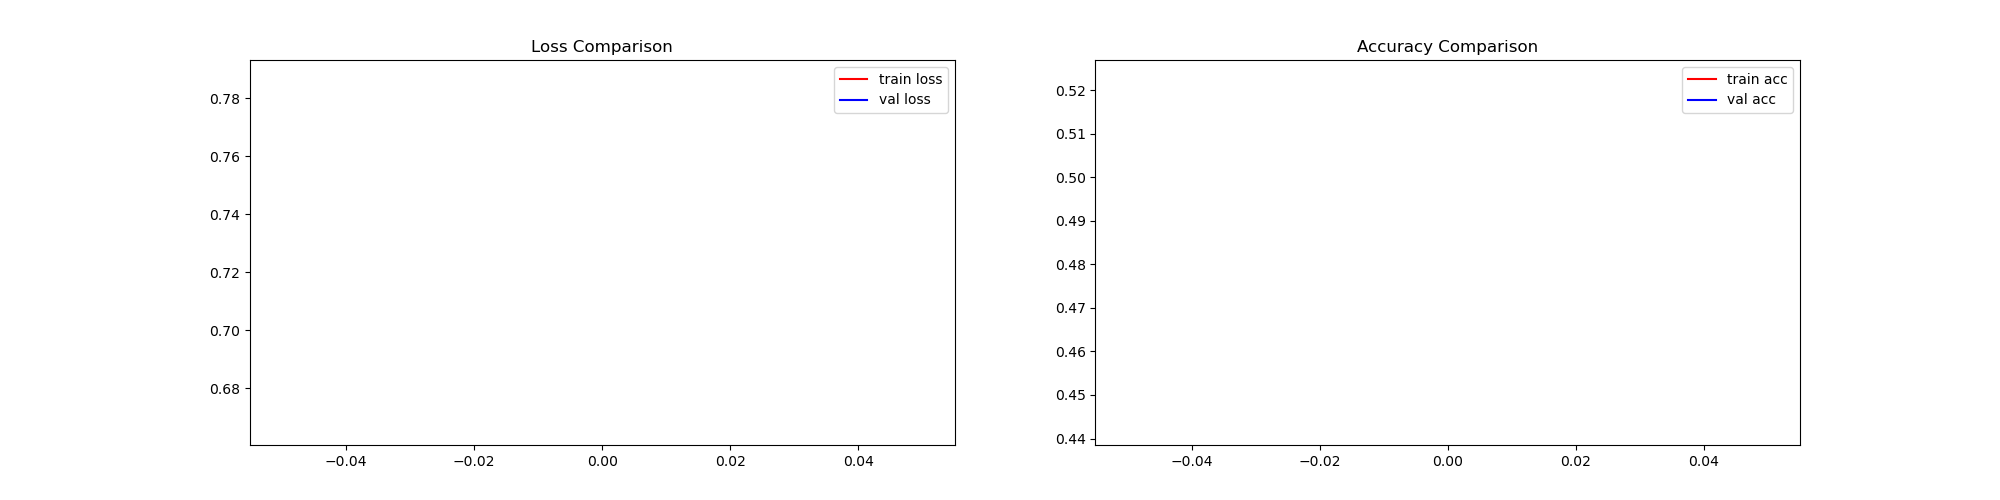
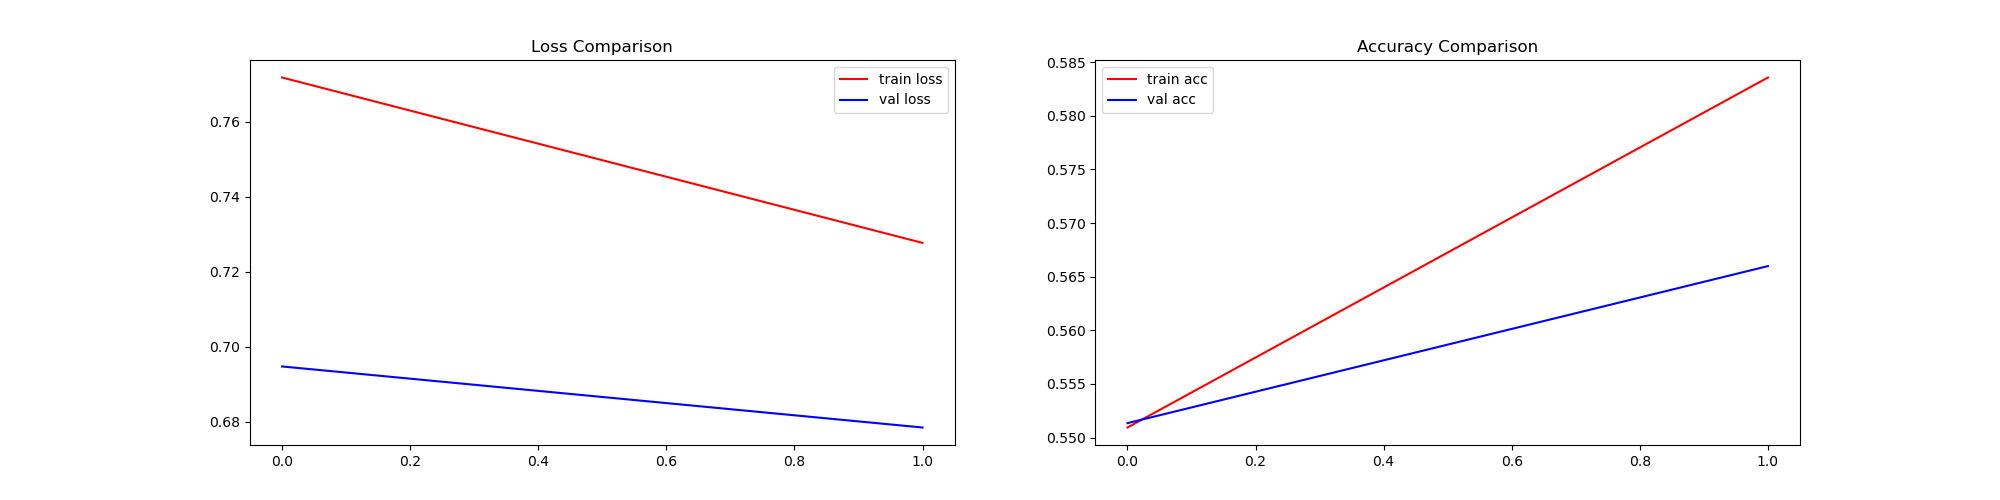
fix on transfer learning

diff --git a/train_transfer.py b/train_transfer.py
@@ -7,12 +7,16 @@ from models.unet import Unet
 from models.unet3plus import Unet_3plus
 from models.newmodel import unetmodel
 from focal_loss import SparseCategoricalFocalLoss
+#from utils.datapreparationlocal import my_division_data
 from utils.datapreparation import my_division_data
 from utils.prediction import make_prediction
 # from models.bridgenet import BridgeNet_1
 import matplotlib.pyplot as plt
 from utils.datapreparation_aerialimagery import aerial_patches
 from utils.datapreparation_forest import forest_patches
+
+from tensorflow.keras import Sequential
+from tensorflow.keras.layers import Dense
 
 def get_args():
     parser = argparse.ArgumentParser(description='Train the UNet on images and target masks')
@@ -36,7 +40,8 @@ def get_args():
     parser.add_argument('--lr', type=float, default=1e-4, help="learning rate")
     parser.add_argument('--dropout', type=float, default=0.5, help="dropout rate")
     parser.add_argument('--kernel', '-k', type=int, default=3, help="kernel size")
-    parser.add_argument('--classes', type=int, default=6, help="number of classes")
+    parser.add_argument('--pre_classes', type=int, default=6, help="number of classes of pre trained")
+    parser.add_argument('--classes', type=int, default=6, help="number of classes to be trained")
 
 
 
@@ -50,7 +55,7 @@ if __name__ == '__main__':
   args= get_args()
   slice_shape1=args.slice_shape1
   slice_shape2=args.slice_shape2
-  num_classes=args.classes
+  num_classes=args.pre_classes
   stride1=100
   strideval2=100
   stridetest2=100
@@ -60,12 +65,12 @@ if __name__ == '__main__':
     train_image,train_label, test_image, test_label, val_image, val_label=aerial_patches("/scratch/nuneslima/aerial_imagery/dataset", (slice_shape1,slice_shape2), (stride1,args.stridetrain),train=70, val=15, test=15)
   elif(args.dataset==2):
     train_image,train_label, test_image, test_label, val_image, val_label=forest_patches("/home/gabriel/transfer_data/forest_aerial/Forest Segmented/Forest Segmented",train=70, val=15, test=15)
-  #train_image=train_image[:100]
-  #train_label=train_label[:100]
-  #test_image=test_image[:100]
-  #test_label=test_label[:100]
-  #val_image=val_image[:100]
-  #val_label=val_label[:100]
+  # train_image=train_image[:100]
+  # train_label=train_label[:100]
+  # test_image=test_image[:100]
+  # test_label=test_label[:100]
+  # val_image=val_image[:100]
+  # val_label=val_label[:100]
   
   
   #Definition of Models
@@ -75,6 +80,19 @@ if __name__ == '__main__':
     model = Unet_3plus(tam_entrada=(slice_shape1, slice_shape2, 1), n_filters=[16, 32, 64, 128, 256], classes=num_classes)
   elif(args.model==2):
     model = Attention_unet(tam_entrada=(slice_shape1, slice_shape2, 1), num_filtros=[16, 32, 64, 128, 256], classes=num_classes, dropout_rate=args.dropout, kernel_size=args.kernel)
+
+
+  if(args.weights_path!=""):
+    model.load_weights(args.weights_path)
+    print("\n\n LOADED WEIGHTS \n\n")
+    new_model=Sequential()
+    new_model.add(model)
+    new_model.add(Dense(args.classes, activation='softmax'))
+    new_model.layers[0].trainable = False
+    model= new_model
+
+
+
 
   checkpoint_filepath = './checkpoints/'+args.folder+'/checkpoint_'+args.name+'.h5'
 
@@ -121,9 +139,6 @@ if __name__ == '__main__':
     loss=SparseCategoricalFocalLoss(gamma=args.gamma, from_logits=True)
     loss_name="Sparce Categorical Focal Loss, Gamma: " + str(args.gamma)
 
-  if(args.weights_path!=""):
-    model.load_weights(args.weights_path)
-    print("\n\n LOADED WEIGHTS \n\n")
   
 
   #Model Compilation and Training
